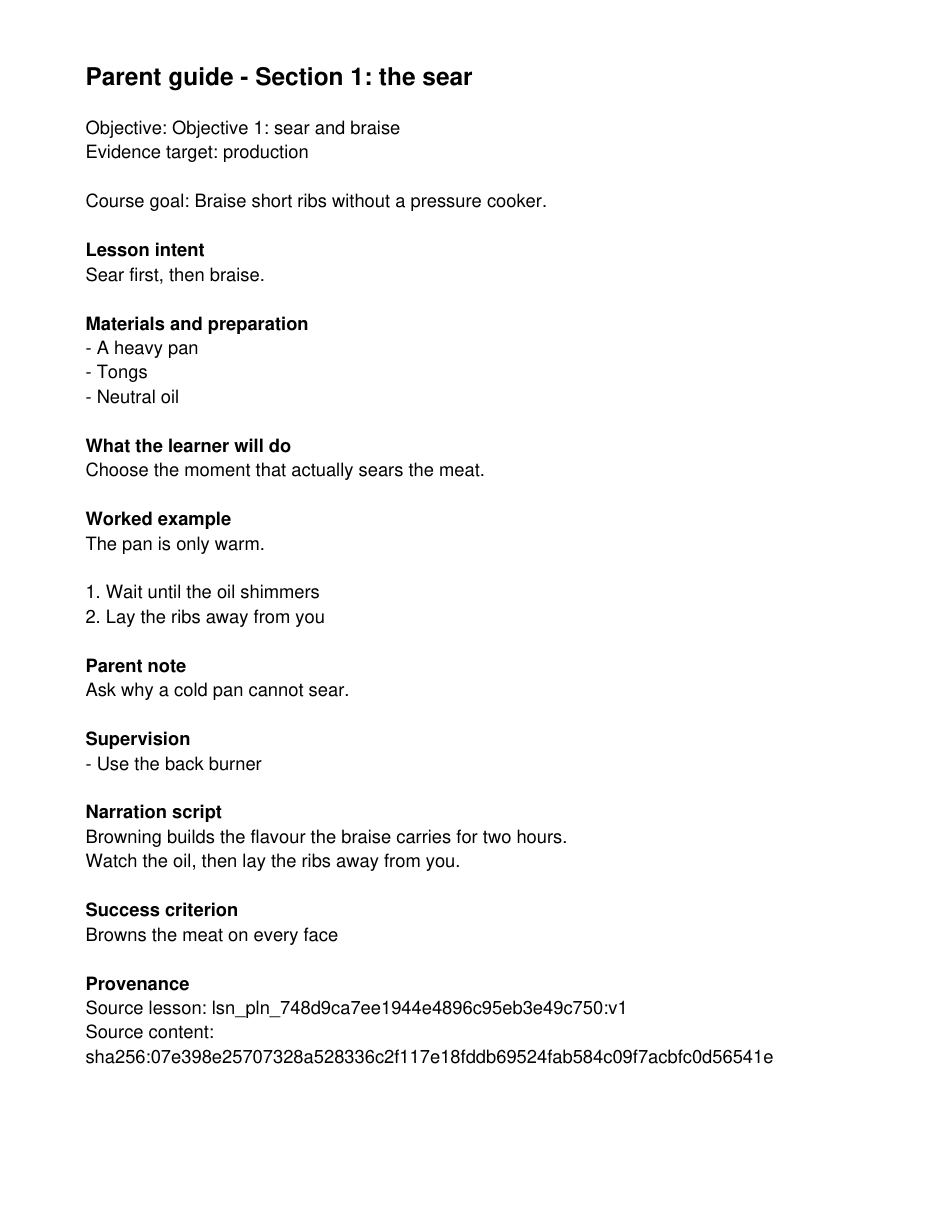
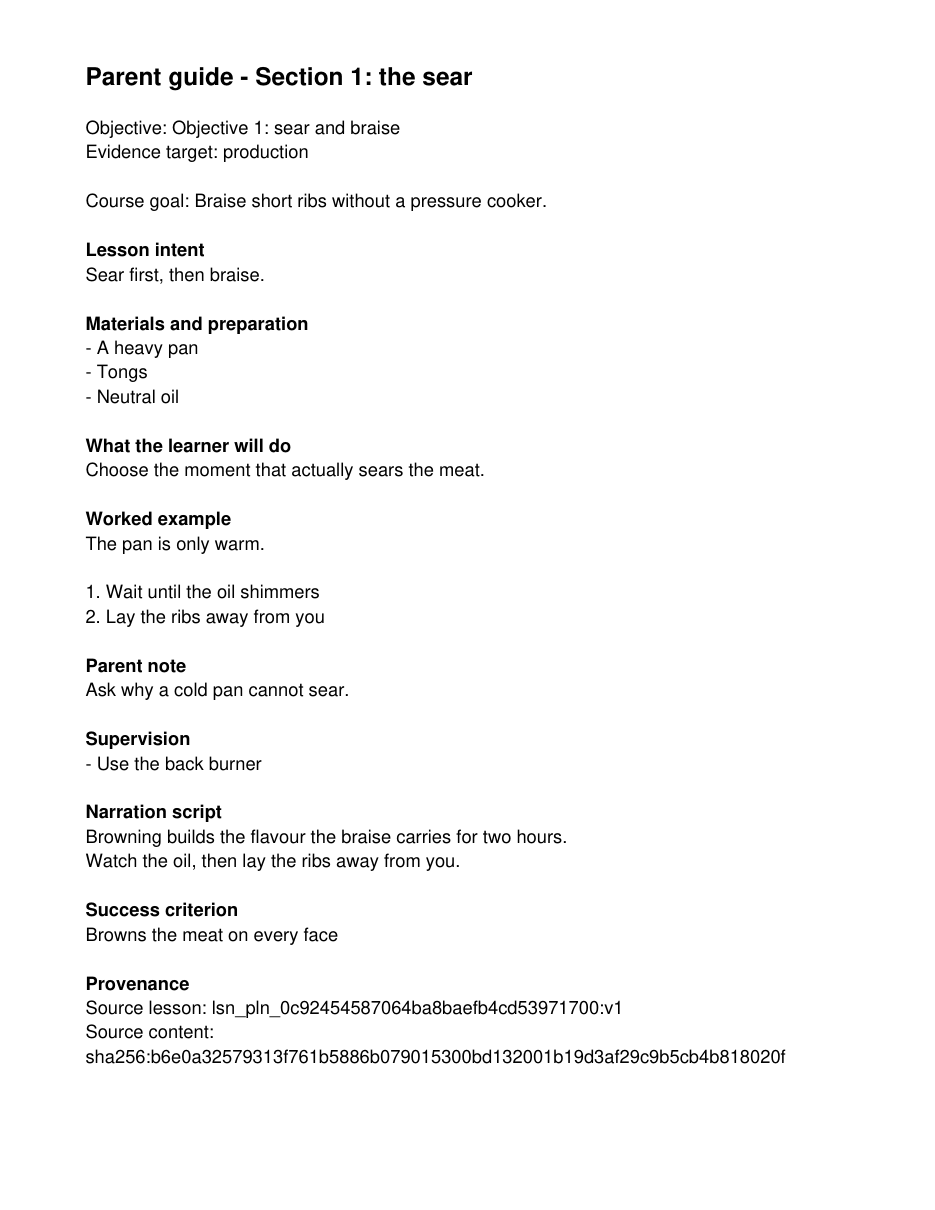
GM-005 round 5: fix create lifecycle and re-derive the H-45 packet under v21
takehome.create deduped on (course, objective, source_lesson_version, audience, kind) for
every state except `superseded`, so once a pack was approved or exported a second create
returned that row and the frozen v21 create response (state const "draft") rejected it with
INTERNAL_ERROR. Dedupe only `state = 'draft'`; an approved or exported pack is history, so
create mints a fresh draft row bound to the same source version and hash.

Tests: test_takehome_create_after_approve_mints_a_fresh_draft,
test_takehome_create_after_export_mints_a_fresh_draft,
test_takehome_create_reuses_an_existing_draft (red first: both lifecycle tests failed with
the reported `state: 'approved'/'exported' is not one of ['draft']` INTERNAL_ERROR).

The v21 registration changed the contract_version every recorded api.dispatch response
echoes, so the committed H-45 packet no longer reproduced. Re-derived with the packet's own
runner (not hand-edited): the complete evidence diff is contract_version 20 -> 21 at 8 sites
plus the manifest hashes those bytes determine; transcripts, verdicts, lesson text, checks
and grading rows are unchanged. Recorded in audit/adversarial/harness-e2e/STATUS.md.

Also relabel the proof's fourth page: the page schema calls every captioned media page a
"plate", but this proof prints a deterministic diagram, so the generator now labels the part
by what produced it (diagram@3) instead of hand-edited evidence.
[…]

Changed region(s): [[0.1551, 0.8256, 0.8374, 0.8868]]

diff --git a/tests/test_gm_takehome.py b/tests/test_gm_takehome.py
@@ -518,6 +518,71 @@ class TakeHomeBindingTest(TakeHomeCase):
             self.scalar("SELECT COUNT(*) FROM takehome_packs"), 1
         )
 
+    def _create_payload(self, seeded: dict, title: str) -> dict:
+        version, _lesson_id = self.lesson_identity(seeded)
+        return {
+            "course_id": seeded["course_id"],
+            "objective_id": seeded["objective_ids"][0],
+            "source_lesson_version": version,
+            "audience": "parent",
+            "kind": "print_pack",
+            "title": title,
+        }
+
+    def test_takehome_create_after_approve_mints_a_fresh_draft(self) -> None:
+        """An approved pack does not poison create: the next create is a new contract-shaped draft."""
+        seeded = self.seed_course()
+        approved = self.approved_pack(seeded)[0]
+        self.assertEqual(
+            self.scalar("SELECT state FROM takehome_packs WHERE id = ?", (approved["pack_id"],)),
+            "approved",
+        )
+        second = self.ok(
+            "takehome.create",
+            self._create_payload(seeded, "Take-home: searing again"),
+            expected_revision=0,
+            idempotency_key="key-create-after-approve",
+        )["result"]
+        self.assertEqual(second["state"], "draft")
+        self.assertEqual(second["revision"], 0)
+        self.assertNotEqual(second["pack_id"], approved["pack_id"])
+        self.assertEqual(second["content_hash"], approved["content_hash"])
+        self.assertEqual(self.scalar("SELECT COUNT(*) FROM takehome_packs"), 2)
+
+    def test_takehome_create_after_export_mints_a_fresh_draft(self) -> None:
+        """An exported pack is not re-opened as a draft: create mints a distinct draft row."""
+        seeded = self.seed_course()
+        self.exported_pack(seeded)
+        version, _lesson_id = self.lesson_identity(seeded)
+        first = self.rows(
+            "SELECT id FROM takehome_packs WHERE state = 'exported' ORDER BY created_at LIMIT 1"
+        )[0]
+        second = self.ok(
+            "takehome.create",
+            self._create_payload(seeded, "Take-home: searing reprint"),
+            expected_revision=0,
+            idempotency_key="key-create-after-export",
+        )["result"]
+        self.assertEqual(second["state"], "draft")
+        self.assertEqual(second["revision"], 0)
+        self.assertNotEqual(second["pack_id"], str(first["id"]))
+        self.assertEqual(second["content_hash"], self.preview(seeded)["content_hash"])
+        self.assertEqual(self.scalar("SELECT COUNT(*) FROM takehome_packs WHERE state = 'draft'"), 1)
+
+    def test_takehome_create_reuses_an_existing_draft(self) -> None:
+        """Two creates for the same source with different keys are one draft, not two."""
+        seeded = self.seed_course()
+        first = self.create(seeded, key="key-draft-one")
+        second = self.ok(
+            "takehome.create",
+            self._create_payload(seeded, "Take-home: searing"),
+            expected_revision=0,
+            idempotency_key="key-draft-two",
+        )["result"]
+        self.assertEqual(second["pack_id"], first["pack_id"])
+        self.assertEqual(second["state"], "draft")
+        self.assertEqual(self.scalar("SELECT COUNT(*) FROM takehome_packs"), 1)
+
 
 class TakeHomePagesTest(TakeHomeCase):
     def test_takehome_learner_page_has_no_answer_key(self) -> None:

diff --git a/audit/gm-005/make_pdf_proof.py b/audit/gm-005/make_pdf_proof.py
@@ -208,12 +208,17 @@ def main() -> int:
         results = {}
         proof_pages = list(preview["pages"])
         proof_pack = {"title": pack["title"], "audience": "parent", "pages": proof_pages}
-        part_roles = ["cover", "parent_guide", "learner_page", "plate", "answer_guide"]
+        # The page schema calls every captioned media page "plate"; the proof labels the page by
+        # what actually produced it, so a deterministic diagram is never described as world art.
+        media_role = "diagram" if pack["diagrams"] else "plate"
+        media_caption = (pack["diagrams"] or pack["plates"])[0]["caption"]
+        part_roles = ["cover", "parent_guide", "learner_page", media_role, "answer_guide"]
+        role_of = {label: ("plate" if label == media_role else label) for label in part_roles}
         part_needles = {
             "cover": "Course: Braising at home",
             "parent_guide": "Parent guide",
             "learner_page": "Why the sear matters",
-            "plate": "Deterministic burner placement",
+            media_role: media_caption,
             "answer_guide": "Reference answer",
         }
         for paper, expected in (("letter", (612, 792)), ("a4", (595, 842))):
@@ -240,11 +245,14 @@ def main() -> int:
             starts = {}
             for role, needle in part_needles.items():
                 starts[role] = next((i for i, text in enumerate(texts) if needle in text), None)
-            assert starts == {"cover": 0, "parent_guide": 1, "learner_page": 2,
-                              "plate": 3, "answer_guide": 4}, (paper, starts)
+            expected_starts = {"cover": 0, "parent_guide": 1, "learner_page": 2,
+                               media_role: 3, "answer_guide": 4}
+            assert starts == expected_starts, (paper, starts)
             # No clipped text: each page's composed text survives extraction (whitespace-insensitive).
             for role in part_roles:
-                src = printed_squash(next(page["text"] for page in proof_pages if page["role"] == role))
+                src = printed_squash(
+                    next(page["text"] for page in proof_pages if page["role"] == role_of[role])
+                )
                 target = squashed(texts[starts[role]])
                 assert src in target, (paper, role, len(src), len(target))
             results[paper] = {

diff --git a/coursebook/takehome.py b/coursebook/takehome.py
@@ -952,18 +952,19 @@ def create(payload: dict[str, Any], envelope: dict[str, Any]) -> tuple[int, dict
         existing = _row(
             connection,
             "SELECT * FROM takehome_packs WHERE source_course_id = ? AND source_objective_id = ?"
-            " AND source_lesson_version = ? AND audience = ? AND kind = ? AND state != 'superseded'"
-            " ORDER BY revision DESC LIMIT 1",
+            " AND source_lesson_version = ? AND audience = ? AND kind = ? AND state = 'draft'"
+            " ORDER BY revision DESC, created_at DESC LIMIT 1",
             (str(payload["course_id"]), str(payload["objective_id"]),
              str(payload["source_lesson_version"]), str(payload["audience"]), str(payload["kind"])),
         )
         if existing is not None:
-            # A second draft for the same source is the same artifact: return it, never duplicate
-            # silently. A new revision is minted only after the previous pack was exported or a
-            # parent edit changed its pages.
+            # A second *draft* for the same source is the same artifact: return it, never
+            # duplicate silently. An approved or exported pack is history, not a draft, so a
+            # further create mints a new draft row instead of returning a row whose state the
+            # create contract cannot describe.
             result = {
                 "pack_id": str(existing["id"]),
-                "state": str(existing["state"]),
+                "state": "draft",
                 "revision": int(existing["revision"]),
                 "content_hash": str(existing["content_hash"]),
             }

diff --git a/docs/CONTRACTS.md b/docs/CONTRACTS.md
@@ -2255,9 +2255,9 @@ the check row). The source course is never cloned, rewritten, re-approved or enr
 |---|---|---|
 | `takehome.sources` | read | The Parent Studio picker over one learner course: objective, section, validated lesson version, content hash and whether an approved world plate exists. A parent-only authoring course is refused with `POLICY_VIOLATION`, `details.reason = "parent_only_course"`. |
 | `takehome.preview` | read | Composes the exact pages and returns `content_hash`, `preview_hash`, `pages` and recorded `sources`; persists nothing. The four base page objects are always present; captioned plate/diagram pages share the contract's 12-page ceiling with them, so a full world kit previews instead of overflowing. The learner page is a separate page object from the answer guide. |
-| `takehome.create` | mutate | Binds the draft row. A duplicate draft for the same source returns the existing row rather than minting a silent clone. |
+| `takehome.create` | mutate | Binds the draft row. A duplicate **draft** for the same source returns the existing row rather than minting a silent clone; once the previous pack is `approved` or `exported` it is history, so `create` mints a new draft row (never returns a state the create response cannot describe). |
 | `takehome.approve` | mutate | Fenced on `preview_hash`: an edit after preview invalidates this approval, not the source course. |
-| `takehome.export` | mutate | Renders the bound, approved pages to selectable-text PDF through `artifacts.make_pdf` and the artifact store, filtered to the pack's `audience`: a learner copy prints cover + learner page + captioned plates and never the parent guide or answer guide; a parent copy prints the full pack. A replay of the same idempotency key and payload returns the stored result rather than a false `STALE_REVISION`. A failed render is `HOST_UNAVAILABLE`, never a blank pack. |
+| `takehome.export` | mutate | Renders the bound, approved pages to selectable-text PDF through `artifacts.make_pdf` and the artifact store, filtered to the pack's `audience`: a learner copy prints cover + learner page + captioned plates and never the parent guide or answer guide; a parent copy prints the full pack. A replay of the same idempotency key and payload returns the stored result rather than a false `STALE_REVISION`. A failed render is `HOST_UNAVAILABLE`, never a blank pack; text the built-in print font cannot encode is refused as `POLICY_VIOLATION` with `details.reason = "print_font_cannot_render_text"` and writes no artifact rather than printing corrupted characters. |
 | `takehome.read` | read | Returns the stored pack with `parent_guide`, `learner_page` and `answer_guide` as separate page objects, plus plates, diagrams, print profile and export state. It returns no attempts, tutor turns, notes or private observations. |
 
 **The learner page never carries the answer guide.** The answer guide (reference answer, accepted
@@ -2276,5 +2276,6 @@ illustration-only procedure art is refused (`details.reason = "ai_art_as_procedu
 course with no world art prints cleanly with `plates: []`.
 
 Regression guard: `tests/test_gm_takehome.py` (the seven GM-005-named tests plus picker, idempotency,
-hash-fence, learner-audience print filtering, export replay, full-world page budget and typed-heading
-coverage) and `tests/test_contracts.py` (`V21AmendmentTest`).
+create lifecycle after approve/export, hash-fence, learner-audience print filtering, strict-font
+refusal, export replay, full-world page budget and typed-heading coverage) and
+`tests/test_contracts.py` (`V21AmendmentTest`).

diff --git a/audit/gm-005/PROOF.md b/audit/gm-005/PROOF.md
@@ -1,8 +1,8 @@
 # GM-005 take-home pack PDF proof
 
-- pack: `thp_169315c3f0f34196bf12f42ab47891ad` state `exported`
-- source lesson: `lsn_pln_e48c7554a4fa45af9ee6c0d9da01b85b:v1` hash `sha256:78fcc5c00325c1abf116e5835030fb05e2a4a8cc6c6c55f84c4880a5a8062074`
-- exported artifact: `art_f1e4b0aee40a41e2890ce24decc7e1cc` (5622 bytes, application/pdf)
+- pack: `thp_9e1f23b21b32466abb1e3785b9d0a258` state `exported`
+- source lesson: `lsn_pln_0c92454587064ba8baefb4cd53971700:v1` hash `sha256:b6e0a32579313f761b5886b079015300bd132001b19d3af29c9b5cb4b818020f`
+- exported artifact: `art_04978eacf7a54e5e94ffc0e6e0bf7a97` (5622 bytes, application/pdf)
 - learner page contains the answer: False
 - answer guide contains the answer: True
 - diagram authority: deterministic
@@ -10,8 +10,8 @@
 
 | Paper | File | Pages | MediaBox | Part start pages | Extracted chars |
 |---|---|---|---|---|---|
-| letter | `audit/gm-005/gm-005-takehome-proof-letter.pdf` | 5 | 612x792, 612x792, 612x792, 612x792, 612x792 | cover@0, parent_guide@1, learner_page@2, plate@3, answer_guide@4 | 2053 |
-| a4 | `audit/gm-005/gm-005-takehome-proof-a4.pdf` | 5 | 595x842, 595x842, 595x842, 595x842, 595x842 | cover@0, parent_guide@1, learner_page@2, plate@3, answer_guide@4 | 2053 |
+| letter | `audit/gm-005/gm-005-takehome-proof-letter.pdf` | 5 | 612x792, 612x792, 612x792, 612x792, 612x792 | cover@0, parent_guide@1, learner_page@2, diagram@3, answer_guide@4 | 2053 |
+| a4 | `audit/gm-005/gm-005-takehome-proof-a4.pdf` | 5 | 595x842, 595x842, 595x842, 595x842, 595x842 | cover@0, parent_guide@1, learner_page@2, diagram@3, answer_guide@4 | 2053 |
 
 ## Learner-audience sheet (answer-free)
 

diff --git a/audit/adversarial/harness-e2e/STATUS.md b/audit/adversarial/harness-e2e/STATUS.md
@@ -449,3 +449,25 @@ PYTHONPATH=. python3 audit/adversarial/harness-e2e/harness_e2e.py --verify
 Why the packet was re-derived rather than the key dropped: an operator reads a repaired validation
 in the plan-stage record (`coursebook/executor.py` carries `result["validation"]`), and a re-asked
 answer must never read as a first-time one.
+
+## GM-005 re-run — packet re-derived under contract v21 (`wt/gm-005-takehome`)
+
+Registering `cb.rpc` v21 for the take-home pack backend changed the version every recorded
+`api.dispatch` response echoes, so the three scenario evidence files no longer matched
+`manifest.json` (3 failures in `PacketManifestTest.test_fresh_evidence_reproduces_the_committed_bytes`,
+`contract_version: 20` on disk vs `21` from a fresh run) — the manifest doing its job, as in H-49 and
+H-191. No transcript, verdict, lesson text, check, grading row or assertion changed.
+
+Re-derived by the packet's own runner, not hand-edited:
+
+```text
+PYTHONPATH=. python3 audit/adversarial/harness-e2e/harness_e2e.py
+  overall: PASS  (3/3 scenarios)
+PYTHONPATH=. python3 audit/adversarial/harness-e2e/harness_e2e.py --verify
+  packet: FRESH — every evidence file and harness input matches manifest.json
+```
+
+The complete evidence diff is `contract_version: 20 -> 21` (8 sites across the three scenario files)
+plus the manifest hashes those bytes determine. GM-015 re-audits this packet on the integrated tree;
+the re-run preserves provenance because the harness, transcripts and assertions are unchanged and
+the diff is the live contract constant only.
